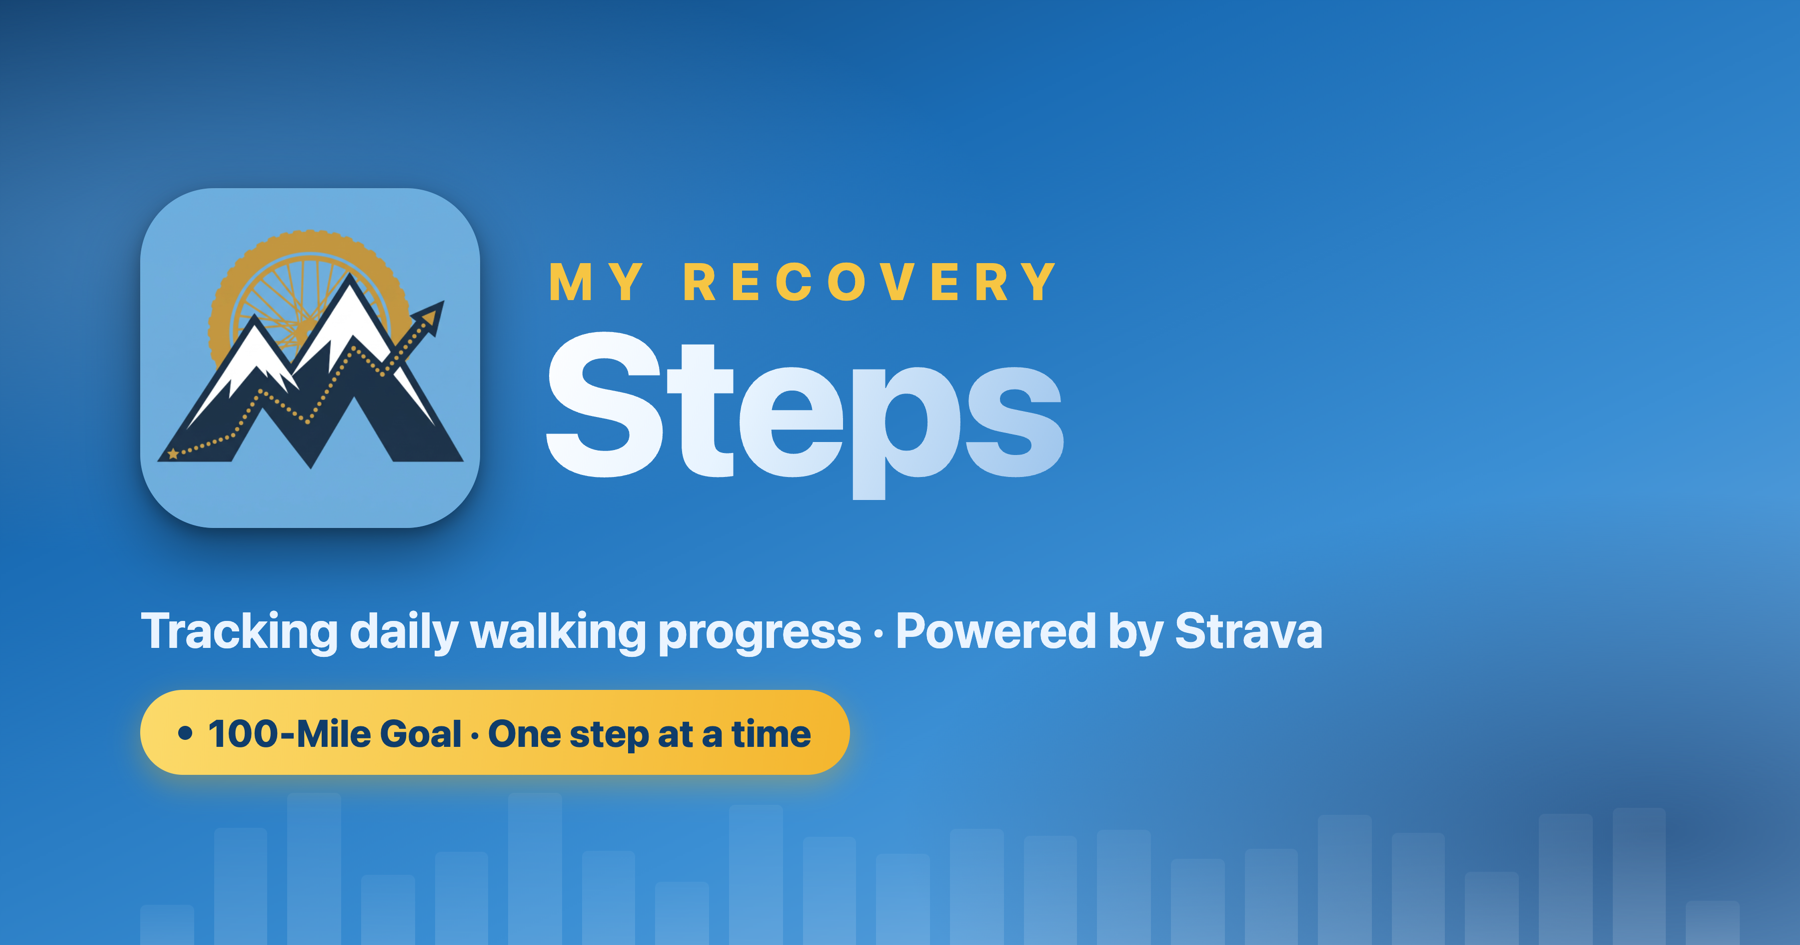
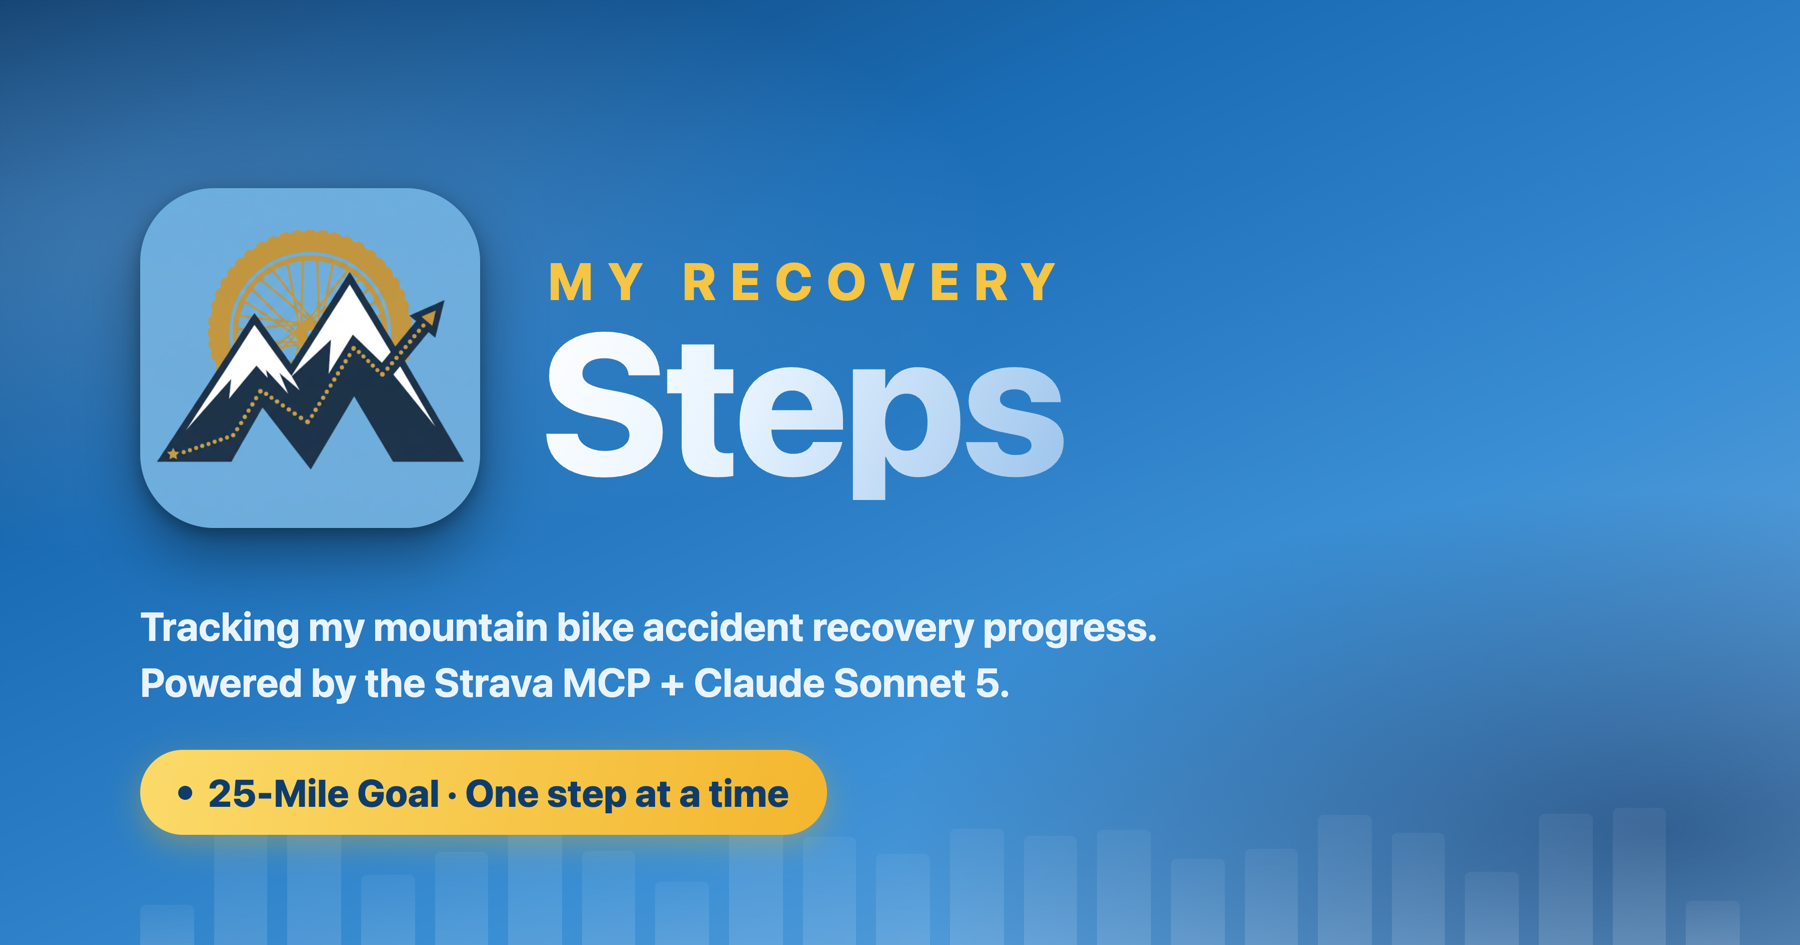
Add TL;DR headline to Recovery Insights, refresh SEO copy + OG image
- Recovery Insights now leads with a bold, plain-view headline
  ("Consistency, not distance") naming the single biggest actionable
  lever, with a one-line supporting sentence and "Do this next" action.
  The two detailed paragraphs + 5 tips move fully behind the existing
  "Full Analysis" chevron toggle instead of duplicating a long paragraph
  in plain view.
- Update SEO meta tags (description, og:description, twitter:description,
  og:image:alt) to match the new hero tagline about mountain bike
  accident recovery.
- Regenerate og-image.png (social share card) with the new, longer
  two-line tagline and the current 25-Mile Goal pill.
- Update the daily Strava sync routine so future automated runs also
  refresh the TL;DR headline (recomputing the biggest actionable lever
  fresh each time) instead of leaving it stale.

Changed region(s): [[0.0622, 0.6444, 0.7467, 0.9206]]

diff --git a/index.html b/index.html
@@ -26,25 +26,25 @@
   <meta name="theme-color" content="#74ACDF">
 
   <!-- SEO -->
-  <meta name="description" content="Tracking daily walking progress · Powered by Strava">
+  <meta name="description" content="Tracking my mountain bike accident recovery progress. Powered by the Strava MCP + Claude Sonnet 5.">
 
   <!-- Open Graph (iMessage, Facebook, LinkedIn, Slack…) -->
   <meta property="og:type" content="website">
   <meta property="og:site_name" content="My Recovery Steps">
   <meta property="og:title" content="My Recovery Steps">
-  <meta property="og:description" content="Tracking daily walking progress · Powered by Strava">
+  <meta property="og:description" content="Tracking my mountain bike accident recovery progress. Powered by the Strava MCP + Claude Sonnet 5.">
   <meta property="og:url" content="https://myrecoverysteps.com/">
   <meta property="og:image" content="https://myrecoverysteps.com/og-image.png">
   <meta property="og:image:secure_url" content="https://myrecoverysteps.com/og-image.png">
   <meta property="og:image:type" content="image/png">
   <meta property="og:image:width" content="1800">
   <meta property="og:image:height" content="945">
-  <meta property="og:image:alt" content="My Recovery Steps — tracking daily walking progress">
+  <meta property="og:image:alt" content="My Recovery Steps — tracking mountain bike accident recovery progress">
 
   <!-- Twitter / X -->
   <meta name="twitter:card" content="summary_large_image">
   <meta name="twitter:title" content="My Recovery Steps">
-  <meta name="twitter:description" content="Tracking daily walking progress · Powered by Strava">
+  <meta name="twitter:description" content="Tracking my mountain bike accident recovery progress. Powered by the Strava MCP + Claude Sonnet 5.">
   <meta name="twitter:image" content="https://myrecoverysteps.com/og-image.png">
 
   <script crossorigin src="https://unpkg.com/react@18/umd/react.production.min.js"></script>
@@ -458,6 +458,13 @@
       padding: 3px 9px;
       color: #BEE1FF;
       margin-bottom: 10px;
+    }
+    .tldr-headline {
+      font-size: clamp(21px, 4.6vw, 29px);
+      font-weight: 800;
+      letter-spacing: -0.4px;
+      line-height: 1.15;
+      color: #FBDA6A;
     }
     .tldr-action {
       display: flex;
@@ -1222,12 +1229,16 @@
             {/* TL;DR — always visible */}
             <div className="tldr-card">
               <div className="tldr-pill">TL;DR</div>
+              <div style={{ display: 'flex', alignItems: 'center', gap: '10px', marginBottom: '9px' }}>
+                <Icon name="shield" c={GOLD_LIGHT} size={26} sw={2} />
+                <div className="tldr-headline">Consistency, not distance</div>
+              </div>
               <p style={{ fontSize: 'clamp(12px, 2vw, 14px)', color: BLUE_LIGHT, lineHeight: 1.7, fontWeight: 400 }}>
-                You're trending up fast — <b style={{ color: GOLD_LIGHT }}>22 walks over 19 days</b> for <b style={{ color: GOLD_LIGHT }}>14.9 miles</b>, with your pace now roughly <b style={{ color: GOLD_LIGHT }}>40% quicker</b> than week one. June 30 was a breakout day: a brand-new <b style={{ color: GOLD_LIGHT }}>longest walk (2.68 mi at 18:05/mi)</b> — more than double your previous record. The one thing still holding you back is <b style={{ color: GOLD_LIGHT }}>consistency</b> — short gaps keep resetting your streak.
+                You're <b style={{ color: GOLD_LIGHT }}>40% faster</b> than week one — short gaps, not fitness, are what keep resetting your streak.
               </p>
               <div className="tldr-action">
                 <span className="ico"><Icon name="arrow" c={GOLD_LIGHT} size={15} sw={2} /></span>
-                <span><b style={{ color: GOLD_LIGHT }}>Do this next:</b> Lock in a daily <b>1-mile floor</b>. Keep it up and the <b>25-Mile Club</b> is about 10 miles away.</span>
+                <span><b style={{ color: GOLD_LIGHT }}>Do this next:</b> Lock in a daily <b>1-mile floor</b>. The <b>25-Mile Club</b> is about 10 miles away.</span>
               </div>
             </div>
 
